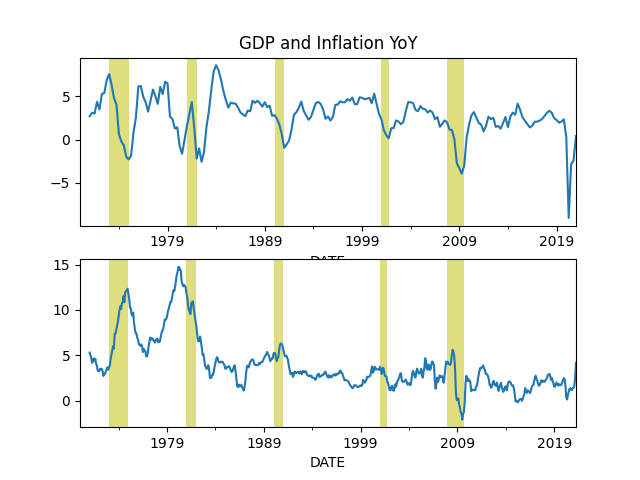
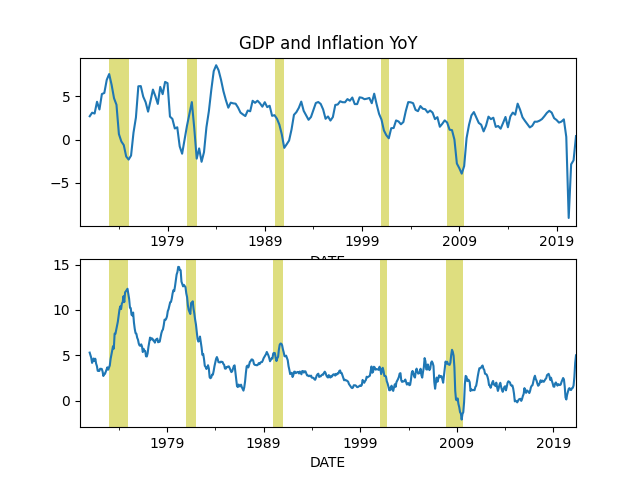
-

diff --git a/en/2019/05/stats.md b/en/2019/05/stats.md
@@ -124,15 +124,15 @@ DATE
 2020-04-01 -9.032775
 2020-07-01 -2.848345
 2020-10-01 -2.386694
-2021-01-01  0.403559
+2021-01-01  0.406168
               infyoy
 DATE                
-2020-11-01  1.174536
 2020-12-01  1.362005
 2021-01-01  1.399770
 2021-02-01  1.676215
 2021-03-01  2.619763
 2021-04-01  4.159695
+2021-05-01  4.992707
 ```
 
 ## Wages and Unemployment
